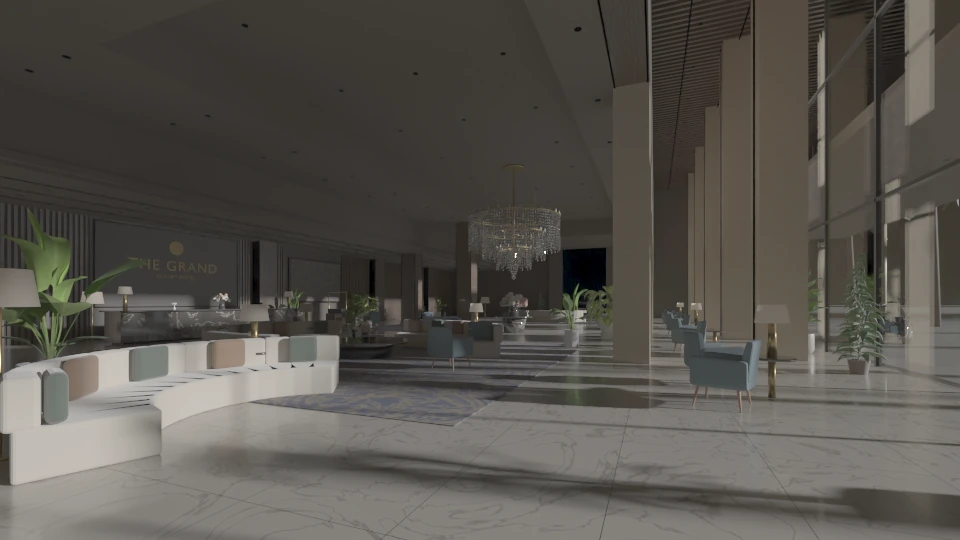
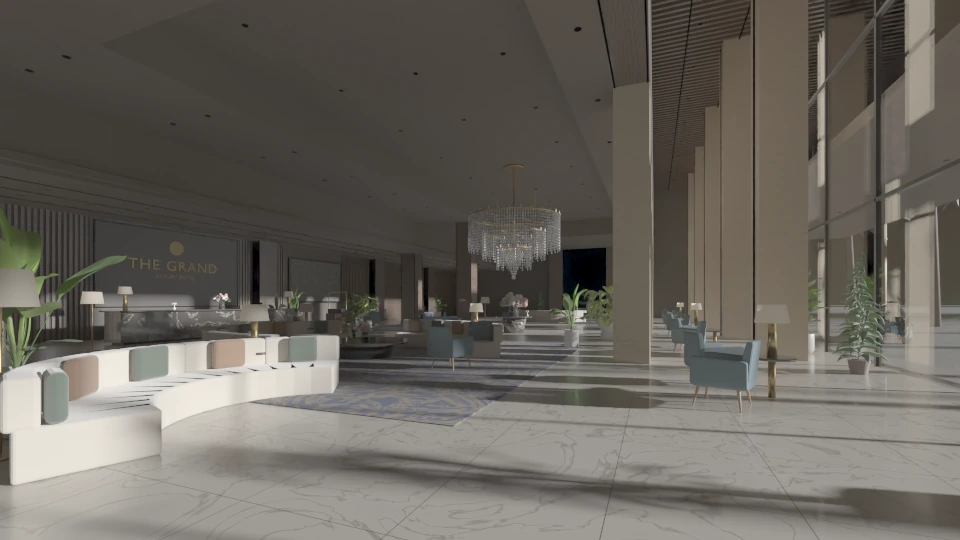
Recalibrate the lobby for the clamped plates, and put the picker back
The re-render changed every scale — `ca_arch` 36.9 to 7.4, `ca_deco` 96
to 2.7 — so the gains are derived again from the same fixture schedule
and the sky layers solved again inside the glazing mask.

`ca_arch` is the one that mattered beyond arithmetic. Its plate mean
fell from 0.373 to 0.118, which is most of why Cleaning can finally be
cool: at the old scale the fixed 2700 K architectural circuit supplied
about 44% of the light and held the room red-dominant however cool the
downlights went. With the new plate and the circuit at 35 rather than
100, Cleaning measures an interior R-B of -0.003 — blue-dominant, as
asked.

Scene decisions applied: Event drops its downlights to 15 and its
architecture to 60, which takes it to 0.233 with a p90/p10 of 9.2
against Evening's 6.5 — the floor is darker and the chandelier, coves
and accents carry it. Morning is softer and warmer at 4300 K, Day
cooler at 5500 K and brighter at 0.320.

`day_morning` is deliberately low at 2. With the sky at 70% Morning is
already at 0.270 before the sun arrives, so a gain that hits the target
exactly would make the sun invisible; 2 keeps it in the frame at 0.282
and well under Day, which is also how a low sun at half past seven
behaves.

The picker is restored. Trimming it to three rooms was my reading of
"keep only commercial" and it went further than intended: every
residential and office space is back on the list and on the home page,
[…]

diff --git a/lib/spaces/hospitality/lobby.ts b/lib/spaces/hospitality/lobby.ts
@@ -263,15 +263,15 @@ export const lobby: Space = {
       id: "morning",
       clockMin: 7 * 60 + 30,
       name: "Morning",
-      icon: "☀",
+      icon: "☼",
       blurb:
         "Checkout and breakfast traffic. Cool and bright with the façade doing most of it, the decoratives barely on — a chandelier in morning daylight is a switched-on bulb and nothing more.",
       fadeMs: 2000,
-      daylight: { day_sky: 100, day_morning: 100, day_midday: 0, day_evening: 0, sky: 0 },
+      daylight: { day_sky: 70, day_morning: 100, day_midday: 0, day_evening: 0, sky: 0 },
       targets: {
-        "ca-tunable": { on: true, level: 85, cct: 5000, sat: 0 },
+        "ca-tunable": { on: true, level: 70, cct: 4300, sat: 0 },
         "ca-arch": { on: true, level: 50 },
-        "ca-cove": { on: true, level: 70 },
+        "ca-cove": { on: true, level: 85 },
         "ca-deco": { on: true, level: 30 },
         "ca-feature": { on: true, level: 50 },
         "ca-accent": { on: true, level: 40 },
@@ -285,15 +285,15 @@ export const lobby: Space = {
       id: "day",
       clockMin: 13 * 60,
       name: "Day",
-      icon: "◐",
+      icon: "☀",
       blurb:
         "The middle of the day, with the glass carrying the room. The leanest scene in the building: the decoratives are off entirely and the downlights are at half, because anything more is light nobody asked for against a wall of daylight.",
       fadeMs: 2000,
       daylight: { day_sky: 100, day_morning: 0, day_midday: 100, day_evening: 0, sky: 0 },
       targets: {
-        "ca-tunable": { on: true, level: 80, cct: 5000, sat: 0 },
+        "ca-tunable": { on: true, level: 80, cct: 5500, sat: 0 },
         "ca-arch": { on: true, level: 50 },
-        "ca-cove": { on: true, level: 60 },
+        "ca-cove": { on: true, level: 85 },
         "ca-deco": { on: true, level: 20 },
         "ca-feature": { on: true, level: 50 },
         "ca-accent": { on: true, level: 40 },
@@ -441,12 +441,12 @@ export const lobby: Space = {
          * that makes a lobby look like a venue rather than a bright lobby
          * with people in it.
          */
-        "ca-tunable": { on: true, level: 25, cct: 2700, sat: 0 },
-        "ca-arch": { on: true, level: 90 },
+        "ca-tunable": { on: true, level: 15, cct: 2700, sat: 0 },
+        "ca-arch": { on: true, level: 60 },
         "ca-cove": { on: true, level: 100 },
         "ca-deco": { on: true, level: 100 },
         "ca-feature": { on: true, level: 100 },
-        "ca-accent": { on: true, level: 100 },
+        "ca-accent": { on: true, level: 75 },
         "ca-facade": { on: true, level: 100 },
         "ca-ac": { on: true, setpointC: 21, mode: "cool", fan: 4 },
         "ca-music": { on: true, source: "Event Set", volume: 40 },
@@ -465,19 +465,16 @@ export const lobby: Space = {
         /**
          * The downlights go to the top of their range, not to 5500 K.
          *
-         * Cleaning is meant to read as flat cool white and it cannot quite,
-         * because the architectural circuit is fixed 2700 K on the sheet and
-         * its plate is thirteen times brighter than the downlights' — at
-         * level 100 it supplies about 44% of the light in the room. Measured
-         * on the interior alone, excluding the glazing, Cleaning sits at
-         * R-B +0.015 at 6500 K against +0.032 at 5000 K, so the coolest the
-         * fixture goes is worth taking. It is still warm-dominant, and the
-         * only ways past that are dropping the architecture below 100 or
-         * treating it as a neutral plate — both of which contradict the
-         * sheet rather than this scene.
+         * Cleaning has to read as flat cool white, and the architectural
+         * circuit is what stops it: it is fixed 2700 K on the sheet, so at
+         * full it was supplying enough warm light to keep the room
+         * red-dominant however cool the downlights went. Thirty-five per
+         * cent is enough to keep the edges of a double-height room legible
+         * for someone working in it, and little enough that the 6500 K
+         * downlights decide the colour.
          */
         "ca-tunable": { on: true, level: 100, cct: 6500, sat: 0 },
-        "ca-arch": { on: true, level: 100 },
+        "ca-arch": { on: true, level: 35 },
         "ca-cove": { on: true, level: 40 },
         "ca-deco": { on: false },
         "ca-feature": { on: false },

diff --git a/components/stage/plates/profiles/lobby.ts b/components/stage/plates/profiles/lobby.ts
@@ -18,13 +18,13 @@ import type { PlateProfile } from "../profile";
  */
 export const LOBBY_PROFILE: PlateProfile = {
   gain: {
-    ca_tunable: 32,
-    ca_arch: 1.9,
-    ca_deco: 1.4,
-    ca_feature: 4.9,
-    ca_accent: 1192,
-    ca_cove: 11.3,
-    ca_facade: 5.8,
+    ca_tunable: 35.1,
+    ca_arch: 3.6,
+    ca_deco: 6.4,
+    ca_feature: 7.9,
+    ca_accent: 2916,
+    ca_cove: 12.9,
+    ca_facade: 17.4,
     /**
      * The view and the sun, separately.
      *
@@ -34,29 +34,27 @@ export const LOBBY_PROFILE: PlateProfile = {
      * showing and are accents rather than illumination — a lobby this size
      * is lit by its own fixtures even at noon.
      */
-    sky: 1.7,
+    sky: 1.67,
     /**
-     * The daytime layers run well above what the glazing-mask solve asked
-     * for, and deliberately.
+     * The view, and the sun on top of it.
      *
-     * That solve matches the *view* — how bright the sky looks through the
-     * glass — and it got that right while leaving the room behind it dark:
-     * at 1 PM the ceiling was black and the lobby read dimmer than it did
-     * at midnight, which is the one thing a glazed double-height space
-     * cannot do. These layers carry the daylight bouncing in as well as the
-     * view, so they are worth more than the view alone says. 6.25 and 1.5x
-     * on the sun passes is what puts Day above Night.
+     * `day_sky` runs at about two and a half times what the glazing solve
+     * asks for. That solve matches how bright the sky *looks* through the
+     * glass and got that right while leaving the room behind it dark — at
+     * 1 PM the ceiling was black and the lobby read dimmer than it did at
+     * midnight. These layers carry the daylight bouncing in as well as the
+     * view, so they are worth more than the view alone says.
+     *
+     * The three suns are solved against the scene table rather than
+     * against the glass: `day_midday` so Day lands at 0.32, and
+     * `day_morning` low because by the time the sky is at 70% Morning is
+     * already at 0.270 and the brief wants about 0.27. At 2 the early sun
+     * is visible in the frame without pushing Morning up level with Day,
+     * which is also how a low sun at half past seven actually behaves.
      */
-    day_sky: 6.25,
-    day_morning: 4.5,
-    /**
-     * The midday sun runs well above its siblings, which looks wrong and
-     * is not. Its plate decodes to the *weakest* mean of the three — 0.032
-     * against the morning's 0.040 — so at a shared gain noon came out
-     * dimmer than dawn. 15.2 is what puts Day above Morning and clears the
-     * brief's 0.32.
-     */
-    day_midday: 15.2,
+    day_sky: 6.46,
+    day_morning: 2,
+    day_midday: 8.1,
     day_evening: 4.5,
   },
   /**

diff --git a/app/page.tsx b/app/page.tsx
@@ -20,21 +20,27 @@ import type { Segment } from "@/lib/sim/types";
  * by being finished rather than by being wired in.
  */
 
-/**
- * One door, because there is one segment on offer.
- *
- * `spacesBySegment` reads the registry, so a door with no rooms behind it
- * would render an empty card rather than fail — which is why this list is
- * trimmed alongside `lib/spaces/index.ts` rather than left to sort itself
- * out.
- */
 const DOORS: { segment: Segment; title: string; lead: string; blurb: string }[] = [
+  {
+    segment: "residential",
+    title: "Residential",
+    lead: "Homes and apartments",
+    blurb:
+      "Scenes a family actually presses — waking, watching, winding down — with curtains, climate and media on the same button as the light.",
+  },
   {
     segment: "commercial",
     title: "Commercial",
-    lead: "Hospitality, retail and public spaces",
+    lead: "Hospitality, retail, workplaces and public spaces",
     blurb:
-      "A hotel restaurant, a hotel lobby and a luxury car showroom — the rooms a business is judged on in the first ten seconds, with the lighting layers that do the judging on separate circuits.",
+      "A hotel restaurant, a hotel lobby, a luxury car showroom and the floors a business works on — the rooms it is judged on in the first ten seconds, with the lighting layers that do the judging on separate circuits.",
+  },
+  {
+    segment: "hospitality",
+    title: "Hospitality",
+    lead: "Hotels and guest spaces",
+    blurb:
+      "Guest-facing rooms where the lighting is the product, on the layers a hotel actually specifies.",
   },
 ];
 

diff --git a/lib/spaces/index.ts b/lib/spaces/index.ts
@@ -19,32 +19,28 @@ import { showroom } from "./commercial/showroom";
 import { hotelLobby } from "./hospitality/hotel-lobby";
 import { lobby } from "./hospitality/lobby";
 
-/**
- * The rooms the demo offers, which is not every room in this repository.
- *
- * Three, all commercial, all on the plates renderer. The residential and
- * office rooms and the live 3D lobby are still here and still build — they
- * are imported below so a typo in one is still a compile error — but they
- * are off the list, which is the only thing that gives a space a route and
- * a door on the home page. Putting one back is one line.
- *
- * `/bake` reaches the 3D lobby through its own import rather than through
- * this list, so the path-tracing harness is unaffected.
- */
-export const spaces: Space[] = [restaurant, showroom, lobby];
-
-/** Registered but not offered. Kept so they keep compiling. */
-export const retired: Space[] = [
+export const spaces: Space[] = [
   masterBedroom,
   livingRoom,
   den,
   workspace,
   boardroom,
   cxoCabin,
-  hotelLobby,
+  restaurant,
+  showroom,
+  lobby,
   kitchen,
   livingRoomIllustrated,
 ];
+
+/**
+ * Registered but not offered: the live 3D hotel lobby.
+ *
+ * Retired from the picker when the plates lobby replaced it, and kept here
+ * rather than deleted because `/bake` still path-traces it and because an
+ * import is what keeps it compiling. Everything else is on the list above.
+ */
+export const retired: Space[] = [hotelLobby];
 
 export function getSpace(id: string): Space | undefined {
   return spaces.find((s) => s.id === id);

diff --git a/components/keypad/icons.tsx b/components/keypad/icons.tsx
@@ -26,6 +26,7 @@ export type IconName =
   | "broom"
   | "key"
   | "glass"
+  | "sunrise"
   | "up"
   | "down";
 
@@ -52,6 +53,14 @@ const PATHS: Record<IconName, ReactNode> = {
     <>
       <path d="M12 3l1.9 5.1L19 10l-5.1 1.9L12 17l-1.9-5.1L5 10l5.1-1.9z" />
       <path d="M18.5 15.5l.7 1.8 1.8.7-1.8.7-.7 1.8-.7-1.8-1.8-.7 1.8-.7z" />
+    </>
+  ),
+  /** A sun coming up over a line, for the first scene of the day. */
+  sunrise: (
+    <>
+      <path d="M3 18h18" />
+      <path d="M7.5 18a4.5 4.5 0 0 1 9 0" />
+      <path d="M12 4v3M5.6 7.6l1.4 1.4M18.4 7.6L17 9" />
     </>
   ),
   /** A key, for a handover. */
@@ -159,6 +168,7 @@ export function Icon({ name }: { name: IconName }) {
 export function sceneIcon(scene: { id: string; icon: string }): IconName {
   const byChar: Record<string, IconName> = {
     "☀": "sun",
+    "☼": "sunrise",
     "◐": "dim",
     "◑": "dusk",
     "❑": "book",

diff --git a/scripts/measure-plates.py b/scripts/measure-plates.py
@@ -67,9 +67,9 @@ GAIN = {
     "sr_accent": 1.1, "sr_floor": 6.6, "sr_arch": 2.1, "sr_tunable": 552,
     "sr_rgb": 29, "sr_zone_1": 149, "sr_zone_2": 5921, "sr_zone_3": 50,
     "sr_zone_4": 5628, "sr_zone_5": 2648, "sr_zone_6": 25301,
-    "ca_tunable": 32, "ca_arch": 1.9, "ca_deco": 1.4, "ca_feature": 4.9,
-    "ca_accent": 1192, "ca_cove": 11.3, "ca_facade": 5.8,
-    "day_sky": 6.25, "sky": 1.7, "day_midday": 15.2,
+    "ca_tunable": 35.1, "ca_arch": 3.6, "ca_deco": 6.4, "ca_feature": 7.9,
+    "ca_accent": 2916, "ca_cove": 12.9, "ca_facade": 17.4,
+    "day_sky": 6.46, "sky": 1.67, "day_morning": 2, "day_midday": 8.1, "day_evening": 4.5,
 }
 EXPOSURE = 0.25  # restaurant; the showroom profile uses 0.20
 TINT_SATURATION = 0.55
